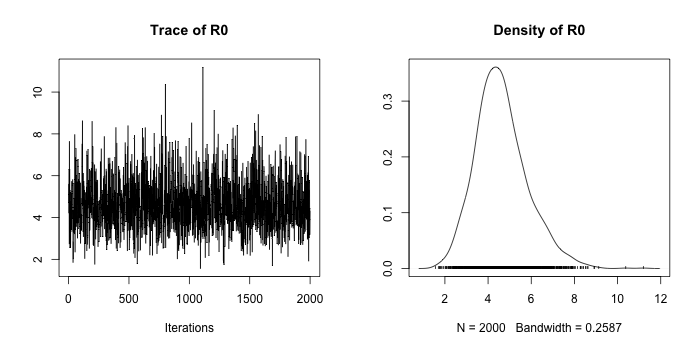
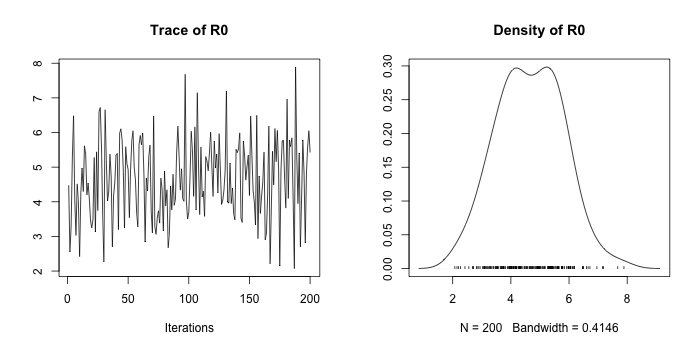
add slides

diff --git a/README.md b/README.md
@@ -12,6 +12,14 @@ The standard SIR model has three components: susceptible, infected, and removed 
 
 ![Standard SIR](man/figures/model0.png)
 
+![BDSSM SIR](man/figures/BDSSM.png)
+
+![Standard SIR](man/figures/RK4.png)
+
+![Standard SIR](man/figures/priors.png)
+
+![Standard SIR](man/figures/algorithm.png)
+
 Preparation
 -----------
 
@@ -49,12 +57,7 @@ By introducing a time-dependent
 *β*
 , we can depict a series of time-varying changes caused by either external variations like government policies, protective measures and environment changes, or internal variations like mutations and evolutions of the pathogen.
 
-The function can be either stepwise or exponential:
-$$
-\\pi(t)=\\sum\_{k=1}^K \\pi\_{0k}I(t\\in\[t\_k,t\_{k+1}))
-$$
- and
-*π*(*t*)=exp(−*λ*<sub>0</sub>*t*)
+The function can be either stepwise or exponential: !![pi functions](man/figures/pi_functions.png)
 
 ![Standard SIR](man/figures/model1.png)
 
@@ -84,8 +87,7 @@ NI_complete <- c( 41,41,41,45,62,131,200,270,375,444,549, 729,
   change_time <- c("01/23/2020","02/04/2020","02/08/2020")
   pi0<- c(1.0,0.9,0.5,0.1)
   res.step <-tvt.eSIR(Y,R,begin_str="01/13/2020",death_in_R = 0.4,T_fin=200,
-                    pi0=pi0,change_time=change_time,dic=T,casename="Hubei_step",                   save_files = T, save_mcmc=F,
-                    M=5e3,nburnin = 2e3)
+                    pi0=pi0,change_time=change_time,dic=T,casename="Hubei_step",                   save_files = T, save_mcmc=F,M=5e2,nburnin = 2e2)
 #> The follow-up is from 01/13/20 to 07/30/20 and the last observed date is 02/11/20.
 #> Running for step-function pi(t)
 #> Compiling model graph
@@ -112,14 +114,15 @@ NI_complete <- c( 41,41,41,45,62,131,200,270,375,444,549, 729,
 
 ``` r
   res.step$dic_val
-#> Mean deviance:  -1261 
-#> penalty 39.64 
-#> Penalized deviance: -1222
+#> Mean deviance:  -1265 
+#> penalty 40.72 
+#> Penalized deviance: -1225
 
   ### continuous exponential function of pi(t)
-  res.exp <- tvt.eSIR(Y,R,begin_str="01/13/2020",death_in_R = 0.4,T_fin=200,                 exponential=TRUE,dic=F,lambda0=0.05,
-                  casename="Hubei_exp",save_files = F,save_mcmc=F,
-                  M=5e3,nburnin = 2e3)
+  res.exp <- tvt.eSIR(Y,R,begin_str="01/13/2020",death_in_R = 0.4,
+                      T_fin=200,exponential=TRUE,dic=F,lambda0=0.05,
+                     casename="Hubei_exp",save_files = F,save_mcmc=F,
+                  M=5e2,nburnin = 2e2)
 #> The follow-up is from 01/13/20 to 07/30/20 and the last observed date is 02/11/20.
 #> Running for exponential-function pi(t)
 #> Compiling model graph
@@ -140,9 +143,9 @@ NI_complete <- c( 41,41,41,45,62,131,200,270,375,444,549, 729,
   #res.exp$plot_removed
 
   ### without pi(t), the standard state-space SIR model without intervention
-  res.nopi <- tvt.eSIR(Y,R,begin_str="01/13/2020",death_in_R = 0.4,T_fin=200,
-                       casename="Hubei_nopi",save_files = F,
-                       M=5e3,nburnin = 2e3)
+  res.nopi <- tvt.eSIR(Y,R,begin_str="01/13/2020",death_in_R = 0.4,
+                       T_fin=200,casename="Hubei_nopi",save_files = F,
+                       M=5e2,nburnin = 2e2)
 #> The follow-up is from 01/13/20 to 07/30/20 and the last observed date is 02/11/20.
 #> Running without pi(t)
 #> Compiling model graph
@@ -168,12 +171,7 @@ Model 2 using `qh.eSIR()`: SIR with time-varying quarantine, which follows a Dir
 
 By introducing a vector of `phi` and its corresponding changing points `change_time`, we introduced a quarantine process that is dependent on a dirac delta function *ϕ*(*t*)∈\[0, 1\]. In other words, only at time points defined by `change_time`, we have certain porportions of the at-risk (susceptible) subjects moved to the quarantine stage. The difference of this model than the previous time-varying transmission one is that we do not allow the tranmission rate to change, but only let the proportion of susceptible subjects decrease. ![Standard SIR](man/figures/model2.png)
 
-$$
-\\phi(t)=\\left\\{\\begin{array}{c l}
-\\phi\_k & t=t\_k;\\\\
-0& o.w. 
-\\end{array}  \\right.
-$$
+![phi](man/figures/phi_functions.png)
 
 ``` r
 set.seed(20192020)
@@ -192,7 +190,7 @@ NI_complete <- c( 41,41,41,45,62,131,200,270,375,444,549, 729,
   res.q <- qh.eSIR (Y,R,begin_str="01/13/2020",death_in_R = 0.4,
                     phi0=phi0,change_time=change_time,
                     casename="Hubei_q",save_files = T,save_mcmc = F,
-                    M=5e3,nburnin = 2e3)
+                    M=5e2,nburnin = 2e2)
 #> The follow-up is from 01/13/20 to 07/30/20 and the last observed date is 02/11/20.
 #> Running for qh.eSIR
 #> Compiling model graph
@@ -216,7 +214,7 @@ NI_complete <- c( 41,41,41,45,62,131,200,270,375,444,549, 729,
 
   #res.noq <- qh.eSIR (Y,R,begin_str="01/13/2020",death_in_R = 0.4,
   #                    T_fin=200,casename="Hubei_noq",
-  #                    M=5e3,nburnin = 2e3)
+  #                    M=5e2,nburnin = 2e2)
   #res.noq$plot_infection
 ```
 
@@ -238,7 +236,6 @@ References
 
 2.  Mkhatshwa, T., & Mummert, A. (2010). Modeling super-spreading events for infectious diseases: case study SARS. arXiv preprint arXiv:1007.0908.
 
-
 Shield: [![CC BY 4.0][cc-by-shield]][cc-by]
 
 This work is licensed under a [Creative Commons Attribution 4.0 International
@@ -249,4 +246,3 @@ License][cc-by].
 [cc-by]: http://creativecommons.org/licenses/by/4.0/
 [cc-by-image]: https://i.creativecommons.org/l/by/4.0/88x31.png
 [cc-by-shield]: https://img.shields.io/badge/License-CC%20BY%204.0-lightgrey.svg
-
